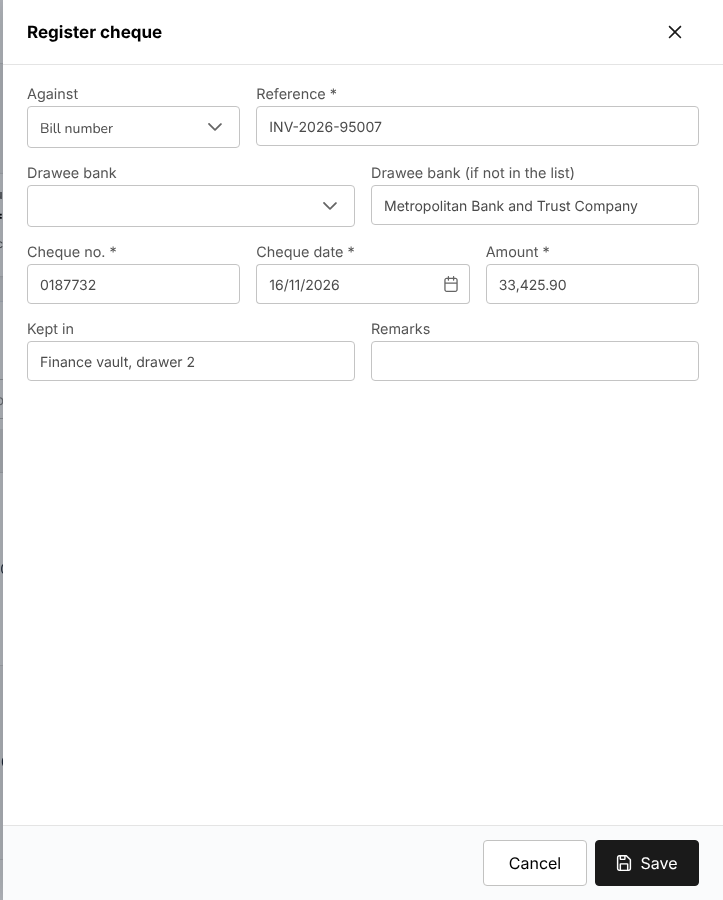
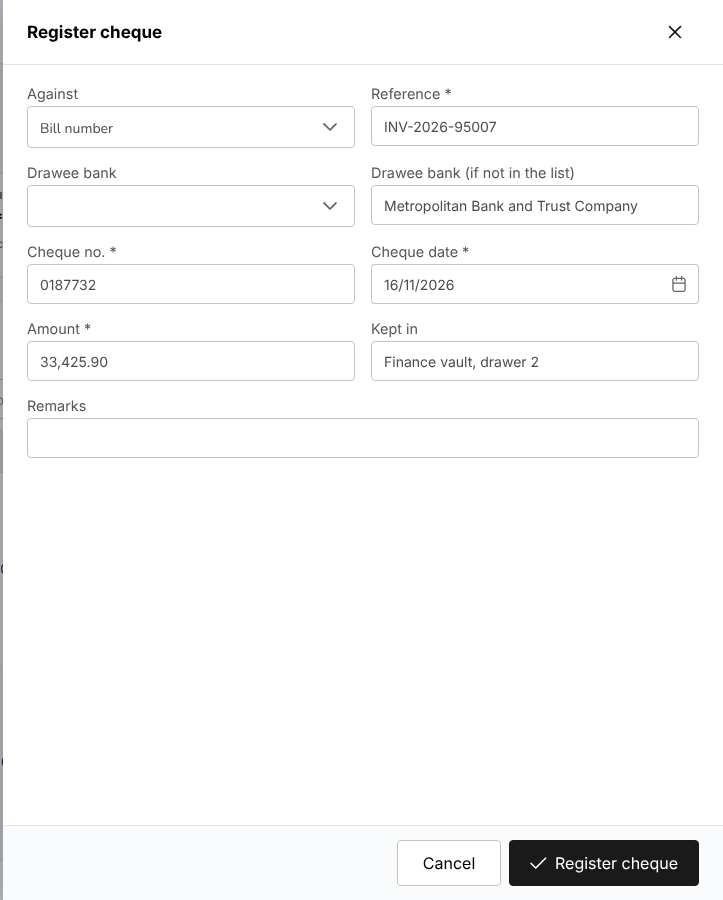
Describe the shared confirmations, record details, activity log and print in the manual
Getting started explains the confirmation that names its action and asks for a coded reason, the record details opened with View, printing of the document instead of the screen, the line that says who may decide a record, and the activity log with the user's role and What changed. The remittance approval limits replace the approval levels of earlier releases. The Post-Dated Cheques chapter names the Cheques tab and the Register cheque and Register replacement actions, with a new screenshot.

diff --git a/docs/TISPH/manual/chapters/getting-started.md b/docs/TISPH/manual/chapters/getting-started.md
@@ -1,9 +1,8 @@
 <!--
 Owner: see WRITER_GUIDE.md. Screens of this chapter: the sign-in page, the side bar and header, My Work, My Profile,
 notifications, a list with filters, a form, an approval, the audit trail, the Help panel.
-Screens to refresh (redesign in another stream): the Notification page (View all notifications) and the remittance
-approval levels in "Approvals and maker-checker". No screenshot of the sign-in page: Microsoft sign-in is off on the
-capture system.
+Screens to refresh (redesign in another stream): the Notification page (View all notifications). No screenshot of the
+sign-in page: Microsoft sign-in is off on the capture system.
 -->
 # Getting started {#getting-started}
 
@@ -259,8 +258,9 @@ Most screens open on a list. The lists work the same way everywhere.
 - **Paging**: the list shows 20 rows per page; change the number at the bottom right. The arrows go to the first,
   previous, next and last page, and the text next to them shows the rows on screen and the total (for example 1 - 16
   of 16). Search and filters apply to the whole list, not only to the page on screen.
-- **Row actions**: at the end of the row. The eye or the arrow opens the record, the pencil edits it, the bin deletes
-  it. An action your role may not use is not shown, or is greyed out.
+- **Row actions**: at the end of the row. **View** (the eye) opens the record and **Edit** (the pencil) changes it;
+  on lists with more actions, the three dots open the row menu, with **View** first. An action your role may not use
+  is not shown; an action that cannot be taken now is greyed out in the menu with the reason.
 - **Export**: lists that can be exported have **Generate Report**, **Export** or **Excel** and **CSV**. The file
   downloads to your computer and contains the rows of the search and filters.
 
@@ -283,10 +283,38 @@ overdue or lost.
 - **Save**, or the action named on the button (for example **Create Placement Slip**), stores the record. **Cancel**
   or the X closes the form without saving. Nothing is stored until you save.
 - After a save the system shows a confirmation at the top right and, for most records, the number it issued.
-- Deleting a record or a task asks for confirmation first: the question names the action, and the button repeats
-  the verb, for example **Delete task**. A decline, return or reversal asks for the reason, chosen from a list.
-- Other decisions take effect as soon as you select them, without a question: for example **Approve** on a renewal of
-  Negotiations or **Approve settlement** on a claim. Check the record before you select the decision.
+- An action that changes or removes a record asks for confirmation first (see [Confirmations](#confirmations)).
+
+### Confirmations {#confirmations}
+
+A confirmation says in one sentence what is about to happen, lists the facts of the record it applies to (amounts in
+pesos on the right, dates as DD/MM/YYYY) and says what follows. The button names the action, for example
+**Submit 3 remittances**, **Register cheque** or **Escalate**; **Cancel** or the X closes the confirmation and
+changes nothing.
+
+- A rejection, return, reversal, cancellation or escalation asks for the **Reason**, chosen from the list of reasons
+  that TIS IT AppSupport / Admin keeps on [Reason Codes](#lead-sources-and-reason-codes). The reason **Other** also needs a **Note**.
+- The button shows that the action is running. The confirmation closes when the action is done; if the system refuses
+  it, the confirmation stays open with the message, and nothing is changed.
+
+![Escalate a remittance exception: the facts of the exception and the reason chosen from the list](images/getting-started/confirm-dialog.png)
+
+### Record details {#record-details}
+
+**View** in a list opens the details of the record, in a window or on a page of its own. The details show the number,
+the status and the main facts at the top, then the facts in groups (label above, value below), and the record's
+activity. **Close** closes the window; **Edit** is shown to the roles that may change the record. Personal data is
+masked as in [Personal data masking](#personal-data-masking).
+
+![Bank details opened from the bank list: the facts in groups, Close and Edit](images/getting-started/detail-view.png)
+
+### Printing {#printing}
+
+**Print** prints the document of the record (receipt, voucher, debit note, schedule), on the letterhead of Toyota
+Insurance Services Philippines, and never the screen: the browser's print window opens with the document only. Where
+the browser cannot print from the page, the document opens in a new tab to print from there. While a print is being
+prepared its button shows that it is working. Documents such as the remittance schedule and advice are downloaded as
+PDF or XLSX files instead. A print is recorded in the activity of the record; repeated prints show as one entry.
 
 ## Uploads and templates {#uploads-and-templates}
 
@@ -329,7 +357,7 @@ approves and who approves your work.
 | Claim decisions and settlement | {{roles:approve:claims}} |
 | Supplier invoice | {{roles:approve:payables}} |
 | Journal voucher, payment voucher and cheque | Another TIS Finance & General Accounting user |
-| Remittance to an insurer, and its settlement, adjustment or electronic transfer | {{roles:write:remittance}}, another user than the one who prepared it |
+| Remittance to an insurer, and its settlement or adjustment | {{roles:approve:remittance}}, within the approval limit, never the user who prepared or submitted it |
 | Bank reconciliation | {{roles:approve:bank-reconciliation}} |
 | Insurer statement reconciliation | {{roles:approve:insurer-reconciliation}} |
 | Credit control decisions | {{roles:approve:credit-control}} |
@@ -339,12 +367,13 @@ approves and who approves your work.
 | Role access changes and authority limits | {{roles:approve:access-control}} |
 
 **Approval limits.** The [Authority Matrix](#authority-matrix) sets the largest amount each role may approve per
-transaction. As delivered it holds no limit, which the role chapters show as "Not set":
+transaction. As delivered:
 
-- a claim settlement is approved by the approver whatever its amount;
-- a remittance to an insurer follows the remittance approval levels instead: one approval up to PHP 100,000.00, two
-  approvals up to PHP 1,000,000.00 and three approvals above that, each by a different user. As soon as TISPH enters
-  remittance limits on the Authority Matrix, one approval by a user whose limit covers the amount is enough.
+- a remittance, and its settlement or adjustment, is approved by TIS Finance & General Accounting up to
+  PHP 1,000,000.00 and by the TIS General Manager without limit. A user without a remittance limit cannot approve
+  or reject a remittance;
+- the other transactions hold no limit, which the role chapters show as "Not set": a claim settlement, for example,
+  is approved by the approver whatever its amount.
 
 To approve:
 
@@ -352,7 +381,13 @@ To approve:
    or reject**.
 2. Select the arrow at the end of the row. The record opens with its approval actions.
 3. Check the record, then choose **Approve**, or the decline action of the screen (**Reject** or **Return**) with
-   the reason. The decision is recorded in the audit trail of the record.
+   the reason. The decision is recorded in the activity of the record.
+
+When you may not decide a record (you entered or submitted it, or its amount is above your limit), the decision
+buttons are greyed out or not shown, and a line next to them says why and, where the system knows them, who can
+decide. The system applies the same rule when the decision is sent.
+
+![A remittance submitted by the user: the line under the steps says that another user decides, and who can](images/getting-started/maker-checker-note.png)
 
 ![Approvals in My Work of the TIS Operations Unit Head: a renewal premium and a claim settlement](images/getting-started/my-work-approvals.png)
 
@@ -387,10 +422,13 @@ To search the audit trail:
 
 ![Master > System > Audit Trail with the sign-ins of the day](images/getting-started/audit-trail.png)
 
-On a record, the activity log lists the events newest first, grouped by day. Each event shows the user and role, the
-action (Created, Updated, Submitted, Approved, Rejected, Posted, Reversed and others), the remarks and **What
-changed** (**Field**, **Before**, **After**). Search the events, filter by **User** and **Kind of event**, and select
-**Export** for an Excel or CSV file.
+On a record, the activity log (the **Activity**, **History** or **Audit Trail** tab) lists the events newest first,
+grouped by day. Each event shows what was done, the date and time, the user's name and role, the status before and
+after, the remarks or reason given and, under **What changed**, each field changed with its value **Before** and
+**After**. Masked personal data stays masked. Where the record offers them, search the events, filter by **User** and
+**Kind of event**, or export them (**Export**, **Download log (XLSX)**).
+
+![Activity of a remittance: submitted by the CCD-Recon user, with What changed open](images/getting-started/activity-log.png)
 
 ## Personal data masking {#personal-data-masking}
 

diff --git a/docs/TISPH/manual/chapters/role-tis-ccd-pdu.md b/docs/TISPH/manual/chapters/role-tis-ccd-pdu.md
@@ -45,7 +45,7 @@ payment status.
 
 1. Choose {{menu:/accounts/post-dated-cheques}}. The cards show the cheques **On hand**, the cheques **Due for
    deposit** and the number **Bounced**.
-2. On the **Cheque register** tab (the list of cheques, not the **Register cheque** button), select the status in
+2. On the **Cheques** tab, select the status in
    the first list (**On hand** is shown first; **All** shows every cheque) and type a PDC number, cheque number,
    client, policy or bill in the search box.
 3. Select **Export to Excel** to download the register with the status selected.
@@ -62,10 +62,10 @@ the system sends a notification of these cheques to the Cash Control users.
 3. In **Reference**, type the bill number (for example INV-2026-95007) or the policy number.
 4. In **Drawee bank**, select the client's bank. If the bank is not in the list, type it in **Drawee bank (if not in
    the list)**.
-5. Type the **Cheque no.** and the **Amount**. Pick the **Cheque date** from the calendar of the field: a date typed
-   in the field is not taken.
+5. Type the **Cheque no.**, the **Cheque date** (DD/MM/YYYY, or pick it from the calendar of the field) and the
+   **Amount**.
 6. In **Kept in**, type where the cheque is filed, for example "Finance vault, drawer 2". Add **Remarks** if needed.
-7. Select **Save**. The system gives the cheque its PDC number (PDC-2026-00004) with the status **On Hand**.
+7. Select **Register cheque**. The system gives the cheque its PDC number (PDC-2026-00004) with the status **On Hand**.
 
 | Field | Required | What to enter | Rule |
 |---|---|---|---|
@@ -73,7 +73,7 @@ the system sends a notification of these cheques to the Cash Control users.
 | **Reference** | Yes | The bill or policy number | The bill must have an open balance |
 | **Drawee bank** | Yes, one of the two | The client's bank | Type it in **Drawee bank (if not in the list)** when it is not listed |
 | **Cheque no.** | Yes | The number printed on the cheque | |
-| **Cheque date** | Yes | The date on the cheque, picked from the calendar | The cheque cannot be deposited before this date |
+| **Cheque date** | Yes | The date on the cheque | The cheque cannot be deposited before this date |
 | **Amount** | Yes | The amount of the cheque | Not more than the bill balance left after the cheques already on hand for it |
 | **Kept in** | No | Vault, drawer or folder | Printed on the register and the export |
 
@@ -117,7 +117,7 @@ e-mail address is on file, receives an e-mail about the returned cheque.
 ### Replace, return or cancel a cheque {#ccd-pdu-post-dated-cheques-replace}
 
 - **Replace** (on a cheque **On Hand** or **Bounced**): enter the new cheque as in
-  [Register a post-dated cheque](#ccd-pdu-post-dated-cheques-encode) and select **Save**. The old cheque becomes
+  [Register a post-dated cheque](#ccd-pdu-post-dated-cheques-encode) and select **Register replacement**. The old cheque becomes
   **Replaced** and the new one is linked to it, against the same bill (or the policy when the bill is closed).
 - **Return** (on a cheque **On Hand**): type why the cheque goes back to the client and select **Return cheque**. The
   cheque becomes **Returned**; the bill stays open.
